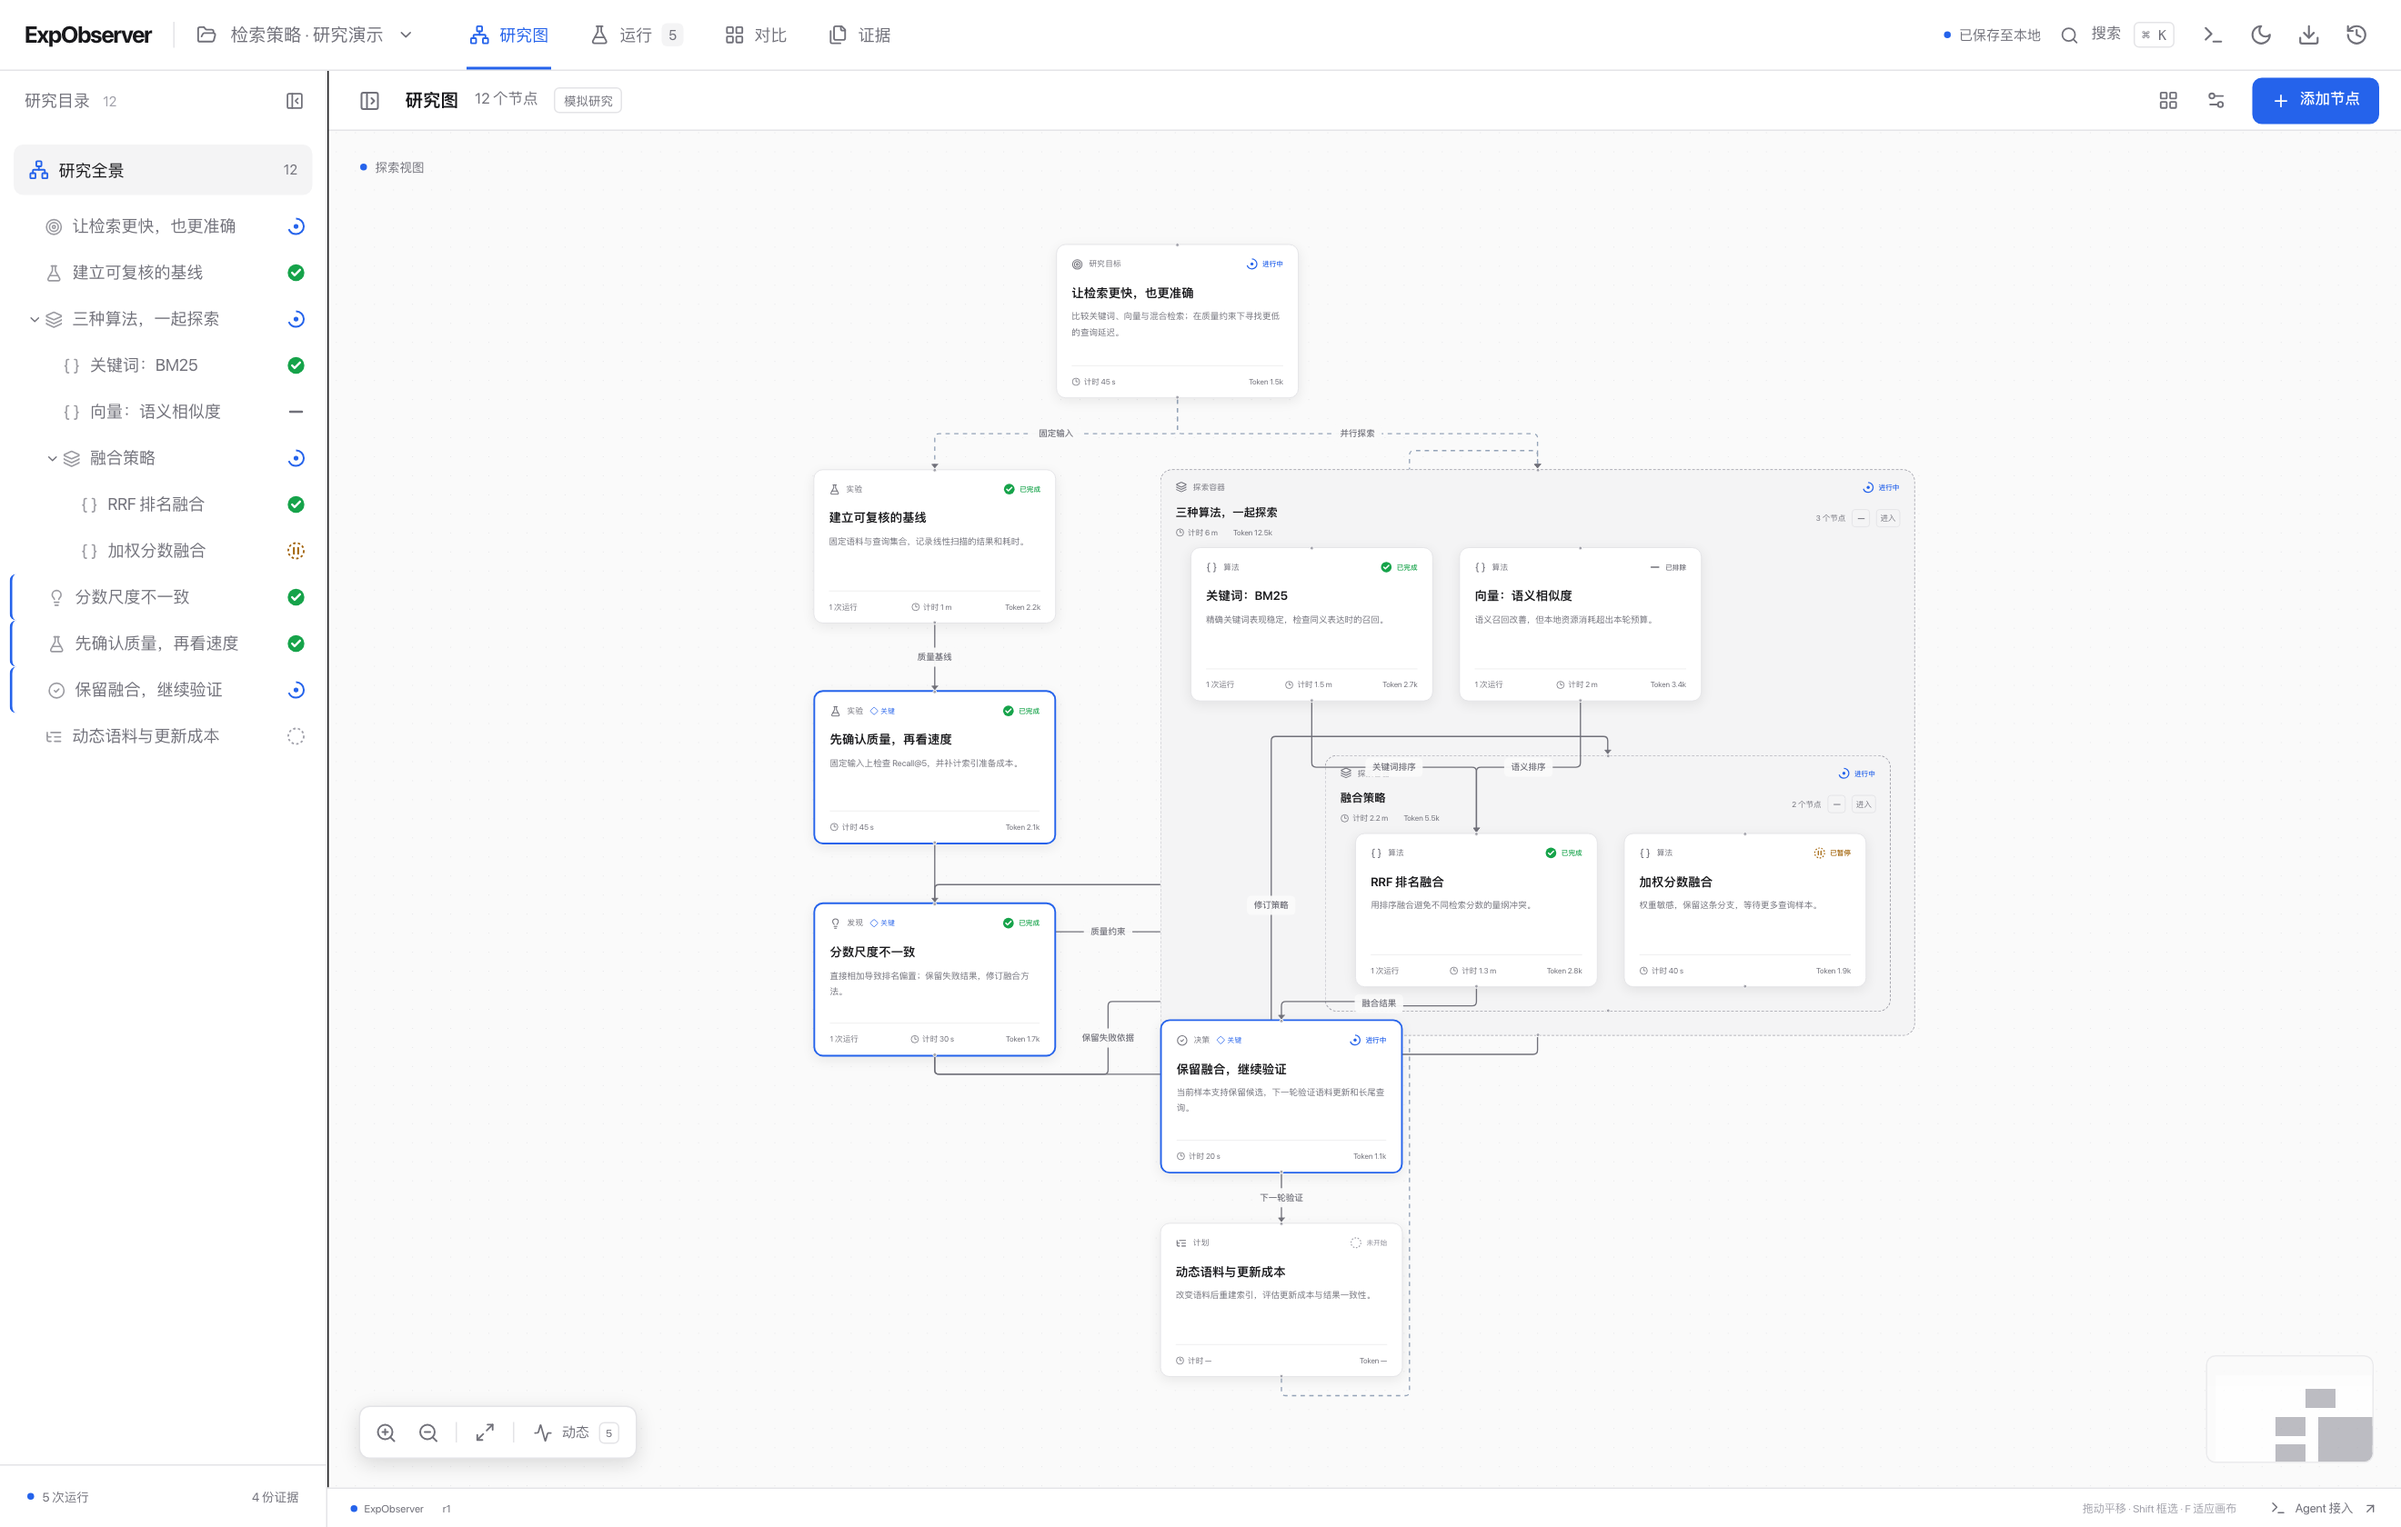
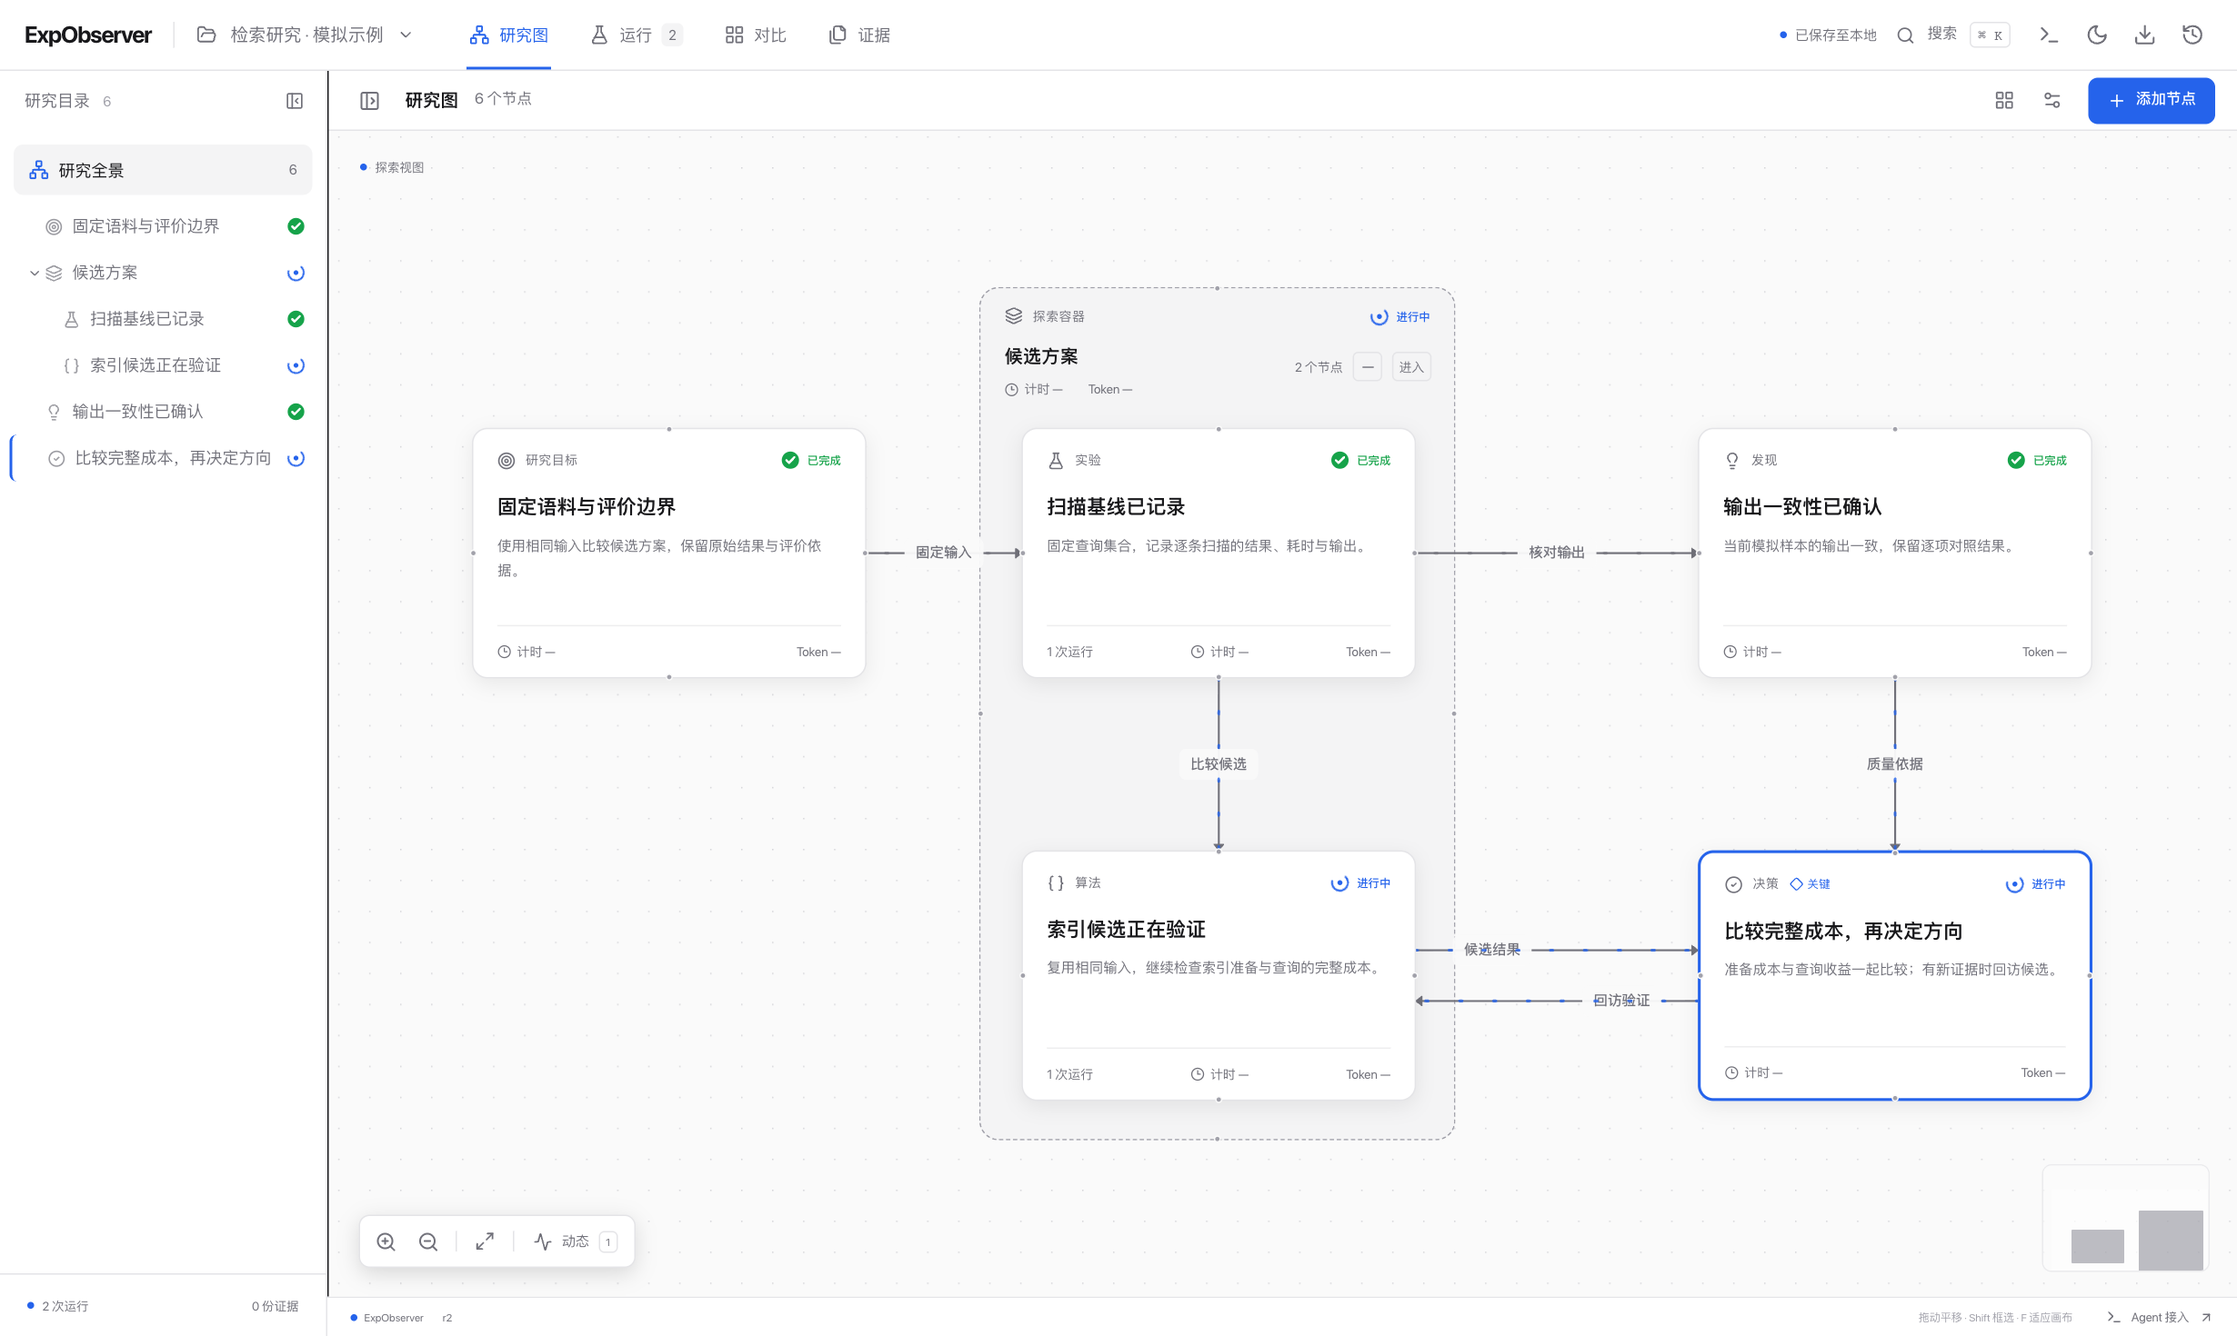
Refresh README screenshots for current graph routing

diff --git a/README.md b/README.md
@@ -2,13 +2,13 @@
 
 [简体中文](README.zh-CN.md)
 
-**A local research graph maintained by you and your agents.**
+**A local workspace for observing experiments and research.**
 
-Explore alternatives, keep evidence, and follow how an experiment changes direction. Any node can contain a graph: group a few algorithm ideas, expand their experiments, then trace the results into a decision. Agents maintain the same experiment across conversations through a portable Skill and small JSON updates.
+Explore alternatives, keep evidence, and follow how an experiment changes direction. Agents record findings and existing results through a portable Skill; the interface updates from those records. Expand nested alternatives, compare results, and trace the evidence behind a decision across conversations.
 
-![Research graph with nested algorithm branches, experiment states and linked findings](docs/screenshots/research.png)
+![Current research graph with a nested candidate group, horizontal connections and separate reciprocal links](docs/screenshots/research.png)
 
-*Research graph: explore nested alternatives and trace evidence into decisions.*
+*Current interface with synthetic demonstration data: nested candidates, evidence links, and a two-way review loop. Active indicators rotate and connections show directional flow in the app.*
 
 ## Quick start
 
@@ -40,9 +40,9 @@ Node state distinguishes **not started** (`proposed`), **active**, **paused**, *
 
 `N` adds a node, `⌘/Ctrl K` opens search, `⌘/Ctrl G` groups selected nodes, and `F` fits the graph. Drag a node by its header. Shift-drag selects nodes; a trackpad or middle/right mouse button pans the canvas. Double-click a container to focus it.
 
-![Measured results and assessments for Python inverted-index and SQLite FTS5 runs](docs/screenshots/comparison.png)
+![Current comparison view preserving nested JSON metrics from two synthetic example runs](docs/screenshots/comparison.png)
 
-*Compare measured results and assessments side by side. Shown here: the [exact-search study](examples/real-study/report.md).*
+*Compare configuration, nested metrics and assessments side by side. This screenshot uses synthetic demonstration data. For a measured example, see the [exact-search study](examples/real-study/report.md).*
 
 ## Give your agent the Skill
 

diff --git a/README.zh-CN.md b/README.zh-CN.md
@@ -2,13 +2,13 @@
 
 [English](README.md)
 
-**由你和 Agent 共同维护的本地研究图。**
+**用于观测实验与研究的本地工作区。**
 
-探索不同方案，保留证据，看清实验为什么转向。任何节点都能包含子图：把几个算法想法放进容器，展开各自的实验，再沿着结果追溯决策。Agent 通过可移植的 Skill 和少量 JSON 增量更新，在不同对话中持续维护同一实验。
+探索不同方案，保留证据，看清实验为什么转向。Agent 通过可移植的 Skill 记录发现与已有结果，界面随数据自动更新。你可以展开嵌套的候选方案、对比结果，并在不同对话之间追溯决策依据。
 
-![研究图：嵌套的算法分支、实验状态，以及相互关联的发现和决策](docs/screenshots/research.png)
+![新版研究图：嵌套候选、左右连线，以及分离的双向回访链路](docs/screenshots/research.png)
 
-*研究图将候选方案、实验和决策连接起来，支持展开嵌套子图。*
+*新版界面的模拟示例：嵌套候选、证据关联与双向回访。实际运行时，进行中标志旋转，连线显示方向流动。*
 
 ## 快速开始
 
@@ -40,9 +40,9 @@ Windows 双击 `start.bat`，或运行 `py -3 start.py`；macOS 也可以双击 
 
 `N` 新建节点，`⌘/Ctrl K` 搜索，`⌘/Ctrl G` 将选中节点分组，`F` 适配整张图。拖动节点标题移动；Shift 拖动框选；触控板或鼠标中键／右键平移画布。双击容器可聚焦其子图。
 
-![方案对比：并排查看 Python 倒排索引与 SQLite FTS5 的实测结果和评估](docs/screenshots/comparison.png)
+![新版对比视图：保留原始嵌套 JSON 指标的两条模拟运行记录](docs/screenshots/comparison.png)
 
-*并排核对两条路线的实验指标和评估。图中展示的是[精确检索研究](examples/real-study/report.md)的实测对比。*
+*并排核对配置、嵌套指标和评估。此图使用模拟演示数据；实测案例见[精确检索研究](examples/real-study/report.md)。*
 
 ## 把 Skill 交给 Agent
 
